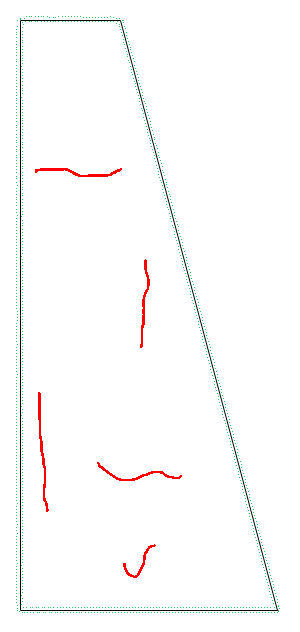
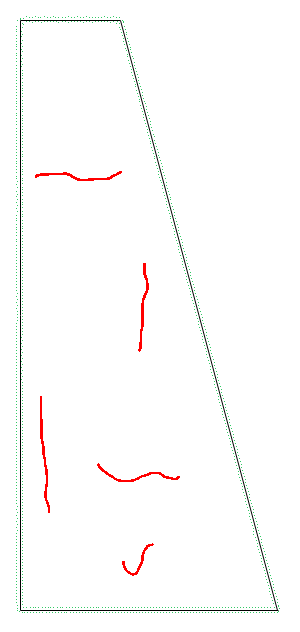
commit before switching to refactoring

diff --git a/examples/load_and_build_examples.cpp b/examples/load_and_build_examples.cpp
@@ -125,15 +125,15 @@ TEST_CASE("Defect transfer test - real data - automatic edge detection.") {
       .cad_path = data_root + "labelled_images/real_cad_feature_label.json",
       .cad_image_path = data_root + "cad/real_cad.png",
       .canny_edge_cad_path = data_root + "canny_edge/canny_edges_cad.png",
-      .image_path = data_root + "images/real_view_1_mask.png",               // switch between raw image and json here for feature label modes
+      .image_path = data_root + "images/real_view_2_mask.png",               // switch between raw image and json here for feature label modes
       .canny_edge_image_path = data_root + "canny_edge/canny_edges_image.png",
-      .defect_path = data_root + "marked_up_images/real_view_1_image.png",
+      .defect_path = data_root + "marked_up_images/real_view_2_image.png",
       .intrinsics_path = data_root + "Radtan_intrinsics_phone.json",
       .config_path = config_root + "SolutionParamsDefault.json",
       .ceres_config_path = config_root + "CeresParamsDefault.json",
       .initial_pose_path = data_root + "poses/initial_pose.json",
       .output_image_path =
-          data_root + "marked_up_cad/real_cad_view_1_markup.png"};
+          data_root + "marked_up_cad/real_cad_view_2_markup.png"};
 
   cad_image_markup::CadImageMarkup markup(inputs);
 
